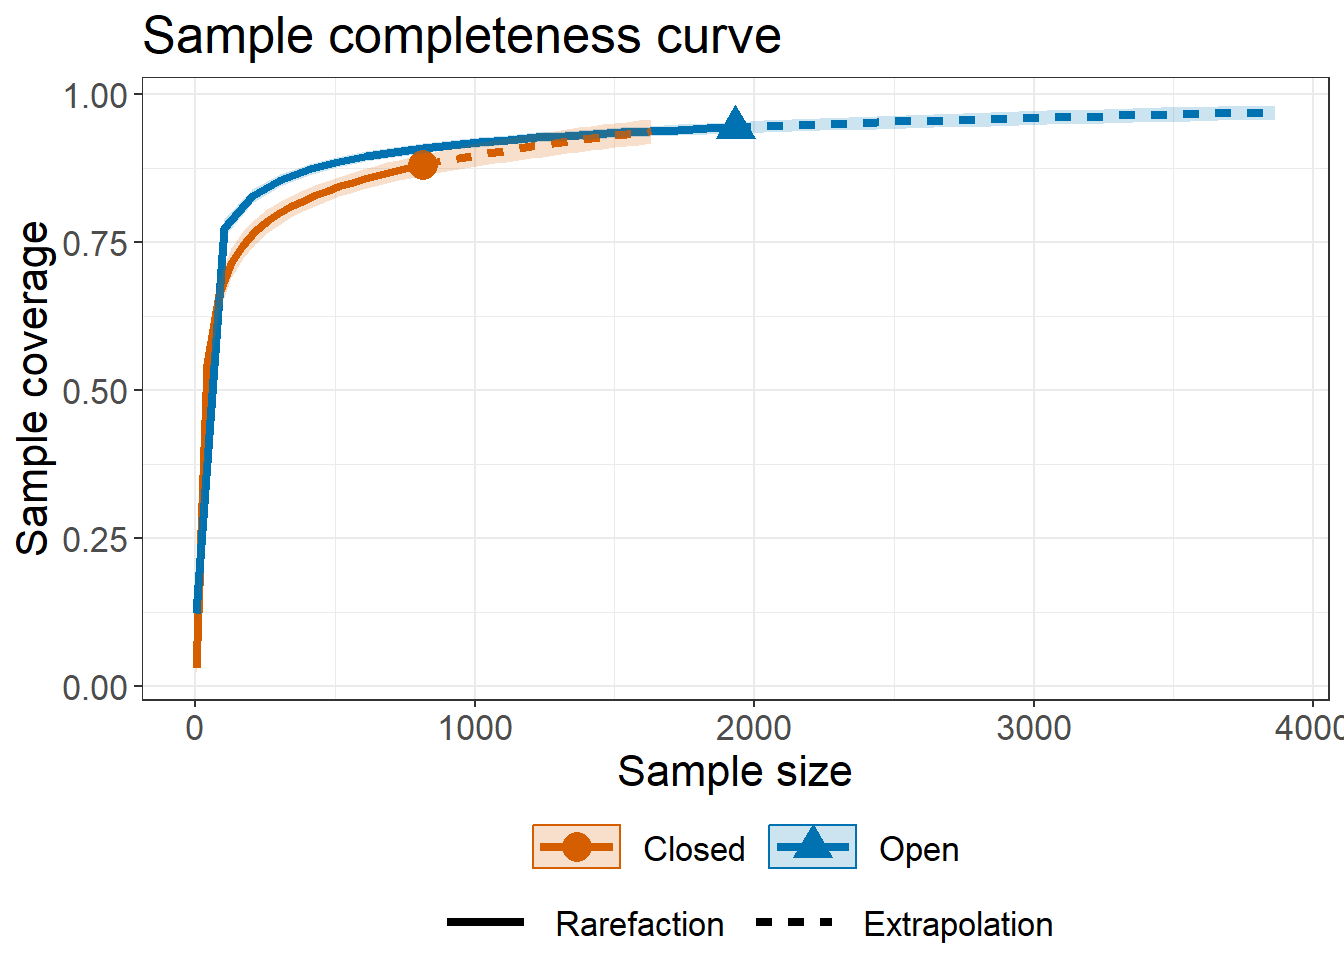
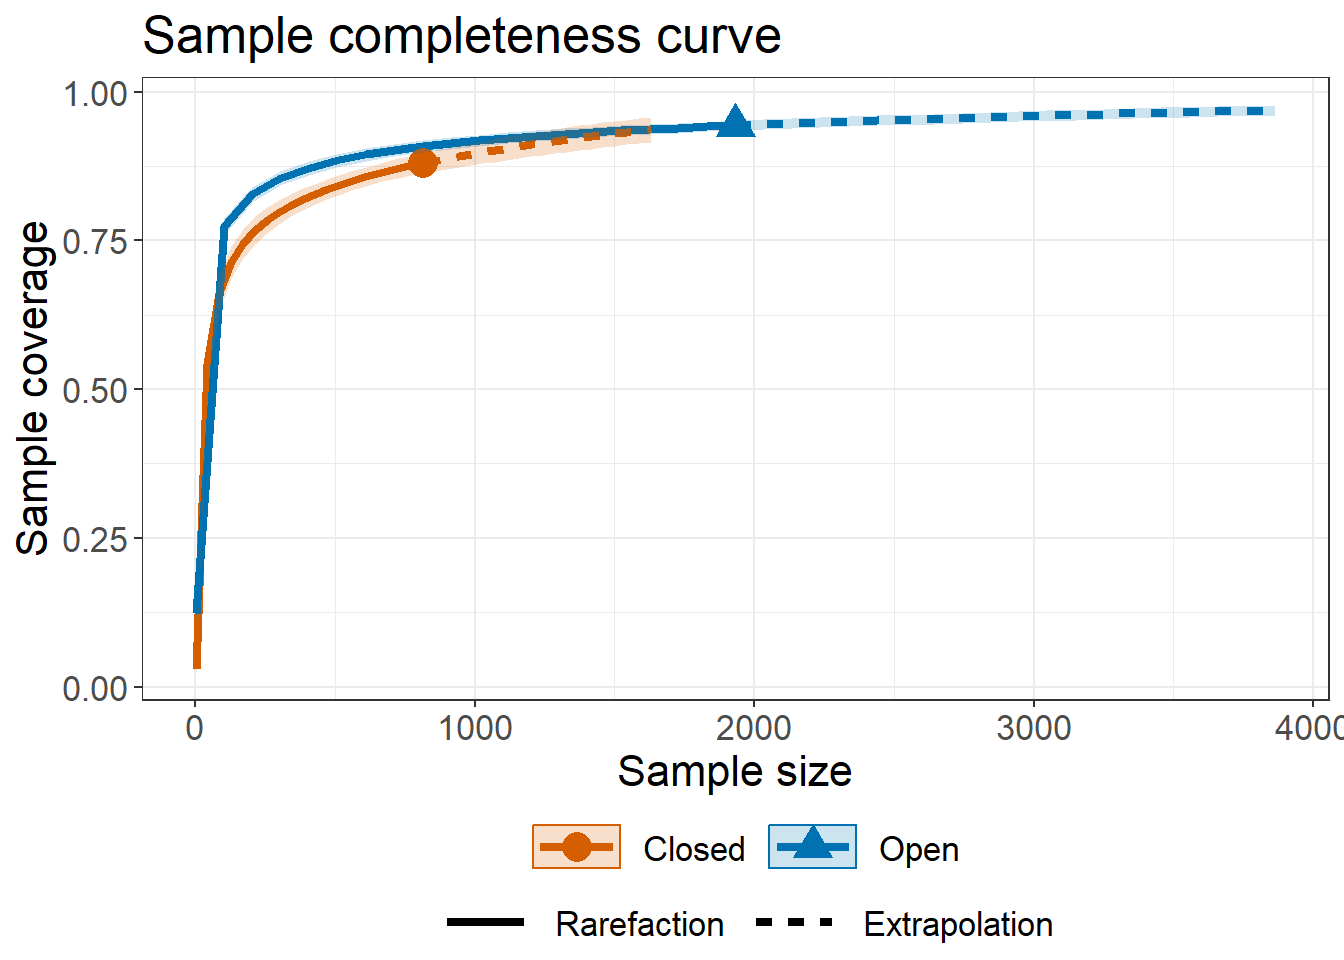
Update README.

diff --git a/README.md b/README.md
@@ -379,12 +379,12 @@ head(linkoutTD$iNextEst$size_based)
 # A tibble: 6 x 10
   Assemblage     m Method      Order.q    qD qD.LCL qD.UCL     SC SC.LCL SC.UCL
   <chr>      <dbl> <chr>         <dbl> <dbl>  <dbl>  <dbl>  <dbl>  <dbl>  <dbl>
-1 Closed         1 Rarefaction       0   1      1      1   0.0295 0.0241 0.0348
-2 Closed        43 Rarefaction       0  28.0   26.6   29.5 0.543  0.506  0.580 
-3 Closed        86 Rarefaction       0  44.8   42.0   47.6 0.661  0.632  0.689 
-4 Closed       129 Rarefaction       0  58.2   54.3   62.0 0.713  0.688  0.739 
-5 Closed       172 Rarefaction       0  69.8   65.0   74.6 0.745  0.722  0.768 
-6 Closed       215 Rarefaction       0  80.2   74.6   85.9 0.767  0.746  0.789 
+1 Closed         1 Rarefaction       0   1      1      1   0.0295 0.0252 0.0337
+2 Closed        43 Rarefaction       0  28.0   26.8   29.2 0.543  0.509  0.577 
+3 Closed        86 Rarefaction       0  44.8   42.3   47.3 0.661  0.631  0.691 
+4 Closed       129 Rarefaction       0  58.2   54.4   61.9 0.713  0.686  0.740 
+5 Closed       172 Rarefaction       0  69.8   65.0   74.6 0.745  0.720  0.770 
+6 Closed       215 Rarefaction       0  80.2   74.5   86.0 0.767  0.744  0.790 
 ```
 
 The second data frame of list `$iNextEst` (as shown below for
@@ -404,12 +404,12 @@ head(linkoutTD$iNextEst$coverage_based)
 # A tibble: 6 x 8
   Assemblage     SC      m Method      Order.q    qD qD.LCL qD.UCL
   <chr>       <dbl>  <dbl> <chr>         <dbl> <dbl>  <dbl>  <dbl>
-1 Closed     0.0295   1.00 Rarefaction       0  1.00  0.913   1.09
-2 Closed     0.543   43.0  Rarefaction       0 28.0  23.2    32.9 
-3 Closed     0.661   86.0  Rarefaction       0 44.8  36.8    52.8 
-4 Closed     0.713  129.   Rarefaction       0 58.2  47.7    68.7 
-5 Closed     0.745  172.   Rarefaction       0 69.8  57.2    82.4 
-6 Closed     0.767  215.   Rarefaction       0 80.2  65.9    94.6 
+1 Closed     0.0295   1.00 Rarefaction       0  1.00  0.937   1.06
+2 Closed     0.543   43.0  Rarefaction       0 28.0  23.9    32.2 
+3 Closed     0.661   86.0  Rarefaction       0 44.8  37.2    52.4 
+4 Closed     0.713  129.   Rarefaction       0 58.2  47.6    68.7 
+5 Closed     0.745  172.   Rarefaction       0 69.8  56.8    82.7 
+6 Closed     0.767  215.   Rarefaction       0 80.2  65.3    95.2 
 ```
 
 `$AsyEst` lists the observed diversity, asymptotic estimates, estimated
@@ -423,12 +423,12 @@ self-explanatory.
 ``` r
 head(linkoutTD$AsyEst)
   Assemblage         Diversity   Observed  Estimator       s.e.        LCL        UCL
-1     Closed  Species richness 178.000000 332.713393 28.3104471 277.225937 388.200850
-2     Closed Shannon diversity  64.690053  80.316088  5.0058894  70.504725  90.127451
-3     Closed Simpson diversity  32.627205  33.944467  2.2460690  29.542253  38.346682
-4       Open  Species richness 206.000000 389.238440 46.0252893 299.030531 479.446350
-5       Open Shannon diversity  23.311453  25.911799  1.2732378  23.416299  28.407299
-6       Open Simpson diversity   8.059978   8.089554  0.3115779   7.478873   8.700235
+1     Closed  Species richness 178.000000 332.713393 34.4345148 265.222985 400.203802
+2     Closed Shannon diversity  64.690053  80.316088  4.5779439  71.343483  89.288693
+3     Closed Simpson diversity  32.627205  33.944467  1.9604777  30.102001  37.786933
+4       Open  Species richness 206.000000 389.238440 36.1090429 318.466017 460.010864
+5       Open Shannon diversity  23.311453  25.911799  1.3610219  23.244245  28.579353
+6       Open Simpson diversity   8.059978   8.089554  0.3307473   7.441301   8.737807
 ```
 
 ## GRAPHIC DISPLAYS: FUNCTION ggiNEXT.link()
@@ -445,19 +445,18 @@ curves are allowed for different diversity classes:
 
 1.  Sample-size-based R/E curve (`type=1`): see Figs. 1a and 2a in the
     main text. This curve plots diversity estimates with confidence
-    intervals (if `se=TRUE`) as a function of sample size up to double
-    the reference sample size, by default, or a user-specified
-    `endpoint`.
+    intervals as a function of sample size up to double the reference
+    sample size, by default, or a user-specified `endpoint`.
 
-2.  Sample completeness curve (`type=2`) with confidence intervals (if
-    `se=TRUE`): see Figs. 1b and 2b in the main text. This curve plots
-    the sample coverage with respect to sample size for the same range
-    described in (1).
+2.  Sample completeness curve (`type=2`) with confidence intervals: see
+    Figs. 1b and 2b in the main text. This curve plots the sample
+    coverage with respect to sample size for the same range described in
+    (1).
 
 3.  Coverage-based R/E curve (`type=3`): see Figs. 1c and 2c in the main
     text. This curve plots the diversity estimates with confidence
-    intervals (if `se=TRUE`) as a function of sample coverage up to the
-    maximum coverage obtained from the maximum size described in (1).
+    intervals as a function of sample coverage up to the maximum
+    coverage obtained from the maximum size described in (1).
 
 The argument `facet.var=("Order.q", "Assemblage")` is used to create a
 separate plot for each value of the specified variable. For example, the
@@ -537,10 +536,16 @@ DataInfo.link(beetles, diversity = 'TD')
   Networks    n S.obs(row) S.obs(col) Links.obs Connectance Coverage  f1 f2 f3 f4 f5 f6 f7 f8 f9 f10
 1   Closed  816          6         83       178      0.3574   0.8800  98 31 15  3  3  5  0  2  2   1
 2     Open 1932          6         88       206      0.3902   0.9431 110 33 15  8  7  5  3  2  3   2
+```
+
+``` r
 DataInfo.link(beetles, diversity = 'PD', col.tree = beetles_col_tree)
   Networks    n S.obs(row) S.obs(col) Links.obs Connectance f1* f2*       g1       g2 PD.obs mean_T
 1   Closed  816          6         83       178      0.3574  98  31 11508.99 3873.052    924    285
 2     Open 1932          6         88       206      0.3902 110  33 13918.45 5172.410   1014    285
+```
+
+``` r
 DataInfo.link(beetles, diversity = 'FD', col.distM = beetles_col_distM)
   Networks    n S.obs(row) S.obs(col) Links.obs Connectance  f1 f2 a1' a2' threshold
 1   Closed  816          6         83       178      0.3574  98 31   0   0  8.930741
@@ -571,12 +576,12 @@ extrapolation, as indicated in the method of the output.
 ``` r
 estimateD.link(beetles, diversity = 'TD', q = c(0,1,2), base = "coverage",level = 0.7)
   Assemblage  SC         m      Method Order.q        qD      s.e.    qD.LCL    qD.UCL
-1     Closed 0.7 115.47429 Rarefaction       0 54.183847 4.4243142 45.512351 62.855344
-2     Closed 0.7 115.47429 Rarefaction       1 37.823241 2.7817812 32.371050 43.275432
-3     Closed 0.7 115.47429 Rarefaction       2 26.409739 1.8513187 22.781220 30.038257
-4       Open 0.7  41.05942 Rarefaction       0 17.426867 1.3435812 14.793496 20.060238
-5       Open 0.7  41.05942 Rarefaction       1 10.562168 0.5879382  9.409831 11.714506
-6       Open 0.7  41.05942 Rarefaction       2  6.898403 0.2732411  6.362860  7.433946
+1     Closed 0.7 115.47429 Rarefaction       0 54.183847 3.7391230 46.855301 61.512394
+2     Closed 0.7 115.47429 Rarefaction       1 37.823241 2.2323244 33.447965 42.198516
+3     Closed 0.7 115.47429 Rarefaction       2 26.409739 1.3704514 23.723703 29.095774
+4       Open 0.7  41.05942 Rarefaction       0 17.426867 1.4349989 14.614321 20.239413
+5       Open 0.7  41.05942 Rarefaction       1 10.562168 0.6261249  9.334986 11.789351
+6       Open 0.7  41.05942 Rarefaction       2  6.898403 0.2830484  6.343639  7.453168
 ```
 
 ## ASYMPTOTIC AND OBSERVED DIVERSITY FUNCTION: AO.link
@@ -600,50 +605,50 @@ out1 <- AO.link(beetles, diversity = 'TD', q = seq(0, 2, 0.2), method = c("Asymp
 
 out1
    Order.q         qD       s.e.     qD.LCL     qD.UCL Network     Method
-1      0.0 332.713393 33.9763104 314.715119 386.183778  Closed Asymptotic
-2      0.2 265.977501 24.0172018 251.715410 303.702598  Closed Asymptotic
-3      0.4 203.167245 15.8860259 191.904348 227.848934  Closed Asymptotic
-4      0.6 149.540048 10.1002003 140.654719 164.730418  Closed Asymptotic
-5      0.8 108.592546  6.5883357 101.535898 117.829106  Closed Asymptotic
-6      1.0  80.316088  4.7353808  74.640719  86.380849  Closed Asymptotic
-7      1.2  61.983531  3.7924706  57.327031  66.344344  Closed Asymptotic
-8      1.4  50.295815  3.2542819  46.329640  53.683848  Closed Asymptotic
-9      1.6  42.699384  2.8943068  39.188580  45.744334  Closed Asymptotic
-10     1.8  37.568079  2.6304707  34.376724  40.445198  Closed Asymptotic
-11     2.0  33.944467  2.4321414  30.972156  36.656956  Closed Asymptotic
-12     0.0 389.238440 25.7695985 368.950753 419.614993    Open Asymptotic
-13     0.2 263.223968 15.3143642 249.564315 280.381533    Open Asymptotic
-14     0.4 159.174040  7.9094381 150.628483 168.601683    Open Asymptotic
-15     0.6  86.647814  3.8045883  82.010864  90.721521    Open Asymptotic
-16     0.8  45.571274  1.9786723  43.251229  48.011159    Open Asymptotic
-17     1.0  25.911799  1.1579828  24.693726  27.569131    Open Asymptotic
-18     1.2  16.963237  0.7524340  16.225017  18.071670    Open Asymptotic
-19     1.4  12.643810  0.5426228  12.124167  13.430006    Open Asymptotic
-20     1.6  10.333946  0.4266571   9.923978  10.933100    Open Asymptotic
-21     1.8   8.967960  0.3569329   8.623544   9.454416    Open Asymptotic
-22     2.0   8.089554  0.3116692   7.788035   8.504167    Open Asymptotic
-23     0.0 178.000000 10.3344085 164.400000 189.000000  Closed  Empirical
-24     0.2 149.140436  9.3591022 136.687335 159.398179  Closed  Empirical
-25     0.4 122.284123  8.2462369 111.168394 131.485232  Closed  Empirical
-26     0.6  98.784711  7.0760083  89.113283 106.723166  Closed  Empirical
-27     0.8  79.539008  5.9523008  71.292189  86.176214  Closed  Empirical
-28     1.0  64.690053  4.9660908  57.724088  70.145808  Closed  Empirical
-29     1.2  53.711702  4.1634827  47.809668  58.194544  Closed  Empirical
-30     1.4  45.761569  3.5430160  40.695814  49.491664  Closed  Empirical
-31     1.6  40.008527  3.0755911  35.580914  43.172413  Closed  Empirical
-32     1.8  35.788959  2.7252967  31.843937  38.527422  Closed  Empirical
-33     2.0  32.627205  2.4606368  29.048824  35.040611  Closed  Empirical
-34     0.0 206.000000  6.4265076 197.200000 212.300000    Open  Empirical
-35     0.2 147.911160  4.7682863 141.774671 153.581184    Open  Empirical
-36     0.4  98.276240  3.3383330  94.610688 102.927324    Open  Empirical
-37     0.6  60.906771  2.2294870  59.136257  64.279110    Open  Empirical
-38     0.8  36.832763  1.4445257  35.507725  39.008829    Open  Empirical
-39     1.0  23.311453  0.9313249  22.281398  24.626460    Open  Empirical
-40     1.2  16.195155  0.6205939  15.424552  16.993636    Open  Empirical
-41     1.4  12.394607  0.4391408  11.812373  12.905136    Open  Empirical
-42     1.6  10.237828  0.3315413   9.781227  10.586516    Open  Empirical
-43     1.8   8.920980  0.2648573   8.547761   9.174783    Open  Empirical
-44     2.0   8.059978  0.2213207   7.743510   8.255013    Open  Empirical
+1      0.0 332.713393 27.6842710 308.568044 366.135164  Closed Asymptotic
+2      0.2 265.977501 19.1639055 248.770603 286.512935  Closed Asymptotic
+3      0.4 203.167245 12.2660226 192.055647 218.501068  Closed Asymptotic
+4      0.6 149.540048  7.5456657 142.737347 160.265071  Closed Asymptotic
+5      0.8 108.592546  4.9000398 104.688123 115.983548  Closed Asymptotic
+6      1.0  80.316088  3.5691820  76.912147  85.381432  Closed Asymptotic
+7      1.2  61.983531  2.8233555  58.450432  65.472350  Closed Asymptotic
+8      1.4  50.295815  2.3375278  47.007803  52.776058  Closed Asymptotic
+9      1.6  42.699384  2.0055407  39.721021  44.541638  Closed Asymptotic
+10     1.8  37.568079  1.7797798  34.851500  38.999000  Closed Asymptotic
+11     2.0  33.944467  1.6289016  31.418236  35.101545  Closed Asymptotic
+12     0.0 389.238440 23.9500574 360.262312 418.294163    Open Asymptotic
+13     0.2 263.223968 14.2916069 245.538231 278.399898    Open Asymptotic
+14     0.4 159.174040  7.4655280 150.177567 165.700538    Open Asymptotic
+15     0.6  86.647814  3.6648832  82.973284  91.157042    Open Asymptotic
+16     0.8  45.571274  1.8440972  43.804805  48.145928    Open Asymptotic
+17     1.0  25.911799  0.9564169  24.979600  27.222580    Open Asymptotic
+18     1.2  16.963237  0.5277983  16.417248  17.635319    Open Asymptotic
+19     1.4  12.643810  0.3233401  12.286290  13.013092    Open Asymptotic
+20     1.6  10.333946  0.2228161  10.075356  10.557546    Open Asymptotic
+21     1.8   8.967960  0.1713854   8.765575   9.125483    Open Asymptotic
+22     2.0   8.089554  0.1444350   7.921235   8.249060    Open Asymptotic
+23     0.0 178.000000  4.6690470 172.100000 182.600000  Closed  Empirical
+24     0.2 149.140436  3.9496851 143.683988 153.083960  Closed  Empirical
+25     0.4 122.284123  3.2189158 117.563672 125.444575  Closed  Empirical
+26     0.6  98.784711  2.5527819  94.970468 101.184304  Closed  Empirical
+27     0.8  79.539008  2.0204157  76.608498  81.313093  Closed  Empirical
+28     1.0  64.690053  1.6433614  62.479137  66.444433  Closed  Empirical
+29     1.2  53.711702  1.3937261  52.048203  55.458055  Closed  Empirical
+30     1.4  45.761569  1.2287478  44.472832  47.440153  Closed  Empirical
+31     1.6  40.008527  1.1169462  38.957960  41.604942  Closed  Empirical
+32     1.8  35.788959  1.0407265  34.881725  37.311582  Closed  Empirical
+33     2.0  32.627205  0.9903577  31.802314  34.092468  Closed  Empirical
+34     0.0 206.000000  8.9888820 192.200000 213.300000    Open  Empirical
+35     0.2 147.911160  6.7523332 137.630135 153.511141    Open  Empirical
+36     0.4  98.276240  4.6859813  91.225503 102.391872    Open  Empirical
+37     0.6  60.906771  3.0291282  56.587374  63.834306    Open  Empirical
+38     0.8  36.832763  1.9021038  34.421597  38.881011    Open  Empirical
+39     1.0  23.311453  1.2297123  22.002732  24.759636    Open  Empirical
+40     1.2  16.195155  0.8511934  15.263719  17.261646    Open  Empirical
+41     1.4  12.394607  0.6365222  11.665307  13.224986    Open  Empirical
+42     1.6  10.237828  0.5093079   9.645089  10.919826    Open  Empirical
+43     1.8   8.920980  0.4296588   8.419724   9.506050    Open  Empirical
+44     2.0   8.059978  0.3771210   7.621307   8.578857    Open  Empirical
 ```
 
 ## GRAPHIC DISPLAYS FUNCTION: ggAO.link()
@@ -663,7 +668,7 @@ Here `outcome` is the object of `AO.link`’s output .
 ggAO.link(out1)
 ```
 
-<img src="README/README-unnamed-chunk-16-1.png" width="672" style="display: block; margin: auto;" />
+<img src="README/README-unnamed-chunk-18-1.png" width="672" style="display: block; margin: auto;" />
 
 ## SINGLE COMMUNITY FUNCTION: Completeness.link()
 
@@ -686,7 +691,7 @@ out1 <- Completeness.link(data = beetles)
 ggCompleteness.link(out1)
 ```
 
-<img src="README/README-unnamed-chunk-17-1.png" width="70%" style="display: block; margin: auto;" />
+<img src="README/README-unnamed-chunk-19-1.png" width="70%" style="display: block; margin: auto;" />
 
 ## SINGLE COMMUNITY FUNCTION: Spec.link()
 
@@ -710,7 +715,7 @@ out1 <- Spec.link(data = beetles)
 ggSpec.link(out1)
 ```
 
-<img src="README/README-unnamed-chunk-18-1.png" width="672" style="display: block; margin: auto;" />
+<img src="README/README-unnamed-chunk-20-1.png" width="672" style="display: block; margin: auto;" />
 
 ### Multi-community
 
@@ -886,66 +891,66 @@ Abundance_TD
 
     $gamma
       Estimate Order.q      Method  SC   Size  s.e.    LCL    UCL   Region diversity
-    1   13.978       0 Rarefaction 0.5 20.941 0.889 12.235 15.722 Region_1        TD
-    2   11.552       1 Rarefaction 0.5 20.941 0.685 10.210 12.894 Region_1        TD
-    3    9.072       2 Rarefaction 0.5 20.941 0.484  8.124 10.020 Region_1        TD
-    4   24.932       0 Rarefaction 0.6 45.591 1.615 21.766 28.097 Region_1        TD
-    5   17.460       1 Rarefaction 0.6 45.591 1.009 15.482 19.438 Region_1        TD
-    6   11.614       2 Rarefaction 0.6 45.591 0.577 10.484 12.744 Region_1        TD
+    1   13.978       0 Rarefaction 0.5 20.941 0.743 12.522 15.435 Region_1        TD
+    2   11.552       1 Rarefaction 0.5 20.941 0.559 10.456 12.648 Region_1        TD
+    3    9.072       2 Rarefaction 0.5 20.941 0.383  8.321  9.824 Region_1        TD
+    4   24.932       0 Rarefaction 0.6 45.591 1.466 22.059 27.804 Region_1        TD
+    5   17.460       1 Rarefaction 0.6 45.591 0.853 15.788 19.132 Region_1        TD
+    6   11.614       2 Rarefaction 0.6 45.591 0.449 10.734 12.495 Region_1        TD
 
     $alpha
       Estimate Order.q      Method  SC   Size  s.e.    LCL    UCL   Region diversity
-    1    8.432       0 Rarefaction 0.5 25.949 0.480  7.491  9.373 Region_1        TD
-    2    6.706       1 Rarefaction 0.5 25.949 0.349  6.023  7.390 Region_1        TD
-    3    5.011       2 Rarefaction 0.5 25.949 0.229  4.563  5.460 Region_1        TD
-    4   16.403       0 Rarefaction 0.6 61.802 0.847 14.742 18.063 Region_1        TD
-    5   10.562       1 Rarefaction 0.6 61.802 0.477  9.626 11.497 Region_1        TD
-    6    6.342       2 Rarefaction 0.6 61.802 0.254  5.843  6.841 Region_1        TD
+    1    8.432       0 Rarefaction 0.5 25.949 0.456  7.538  9.326 Region_1        TD
+    2    6.706       1 Rarefaction 0.5 25.949 0.333  6.054  7.359 Region_1        TD
+    3    5.011       2 Rarefaction 0.5 25.949 0.218  4.583  5.440 Region_1        TD
+    4   16.403       0 Rarefaction 0.6 61.802 0.804 14.827 17.978 Region_1        TD
+    5   10.562       1 Rarefaction 0.6 61.802 0.459  9.663 11.460 Region_1        TD
+    6    6.342       2 Rarefaction 0.6 61.802 0.242  5.868  6.816 Region_1        TD
 
     $beta
       Estimate Order.q      Method  SC   Size  s.e.   LCL   UCL   Region diversity
-    1    1.658       0 Rarefaction 0.5 25.949 0.023 1.613 1.702 Region_1        TD
-    2    1.723       1 Rarefaction 0.5 25.949 0.019 1.686 1.759 Region_1        TD
-    3    1.810       2 Rarefaction 0.5 25.949 0.013 1.784 1.836 Region_1        TD
-    4    1.520       0 Rarefaction 0.6 61.802 0.019 1.483 1.557 Region_1        TD
-    5    1.653       1 Rarefaction 0.6 61.802 0.015 1.623 1.683 Region_1        TD
-    6    1.831       2 Rarefaction 0.6 61.802 0.012 1.809 1.854 Region_1        TD
+    1    1.658       0 Rarefaction 0.5 25.949 0.025 1.608 1.707 Region_1        TD
+    2    1.723       1 Rarefaction 0.5 25.949 0.021 1.681 1.764 Region_1        TD
+    3    1.810       2 Rarefaction 0.5 25.949 0.015 1.781 1.839 Region_1        TD
+    4    1.520       0 Rarefaction 0.6 61.802 0.020 1.481 1.559 Region_1        TD
+    5    1.653       1 Rarefaction 0.6 61.802 0.016 1.622 1.684 Region_1        TD
+    6    1.831       2 Rarefaction 0.6 61.802 0.011 1.810 1.852 Region_1        TD
 
     $C
       Estimate Order.q      Method  SC   Size  s.e.   LCL   UCL   Region diversity
-    1    0.658       0 Rarefaction 0.5 25.949 0.023 0.613 0.702 Region_1        TD
-    2    0.785       1 Rarefaction 0.5 25.949 0.016 0.754 0.815 Region_1        TD
-    3    0.895       2 Rarefaction 0.5 25.949 0.008 0.879 0.911 Region_1        TD
-    4    0.520       0 Rarefaction 0.6 61.802 0.019 0.483 0.557 Region_1        TD
-    5    0.725       1 Rarefaction 0.6 61.802 0.013 0.699 0.751 Region_1        TD
-    6    0.908       2 Rarefaction 0.6 61.802 0.007 0.894 0.922 Region_1        TD
+    1    0.658       0 Rarefaction 0.5 25.949 0.025 0.608 0.707 Region_1        TD
+    2    0.785       1 Rarefaction 0.5 25.949 0.018 0.750 0.819 Region_1        TD
+    3    0.895       2 Rarefaction 0.5 25.949 0.009 0.877 0.913 Region_1        TD
+    4    0.520       0 Rarefaction 0.6 61.802 0.020 0.481 0.559 Region_1        TD
+    5    0.725       1 Rarefaction 0.6 61.802 0.014 0.698 0.753 Region_1        TD
+    6    0.908       2 Rarefaction 0.6 61.802 0.006 0.895 0.921 Region_1        TD
 
     $U
       Estimate Order.q      Method  SC   Size  s.e.   LCL   UCL   Region diversity
-    1    0.794       0 Rarefaction 0.5 25.949 0.016 0.761 0.826 Region_1        TD
-    2    0.785       1 Rarefaction 0.5 25.949 0.016 0.754 0.815 Region_1        TD
-    3    0.810       2 Rarefaction 0.5 25.949 0.013 0.784 0.836 Region_1        TD
-    4    0.684       0 Rarefaction 0.6 61.802 0.016 0.652 0.716 Region_1        TD
-    5    0.725       1 Rarefaction 0.6 61.802 0.013 0.699 0.751 Region_1        TD
-    6    0.831       2 Rarefaction 0.6 61.802 0.012 0.809 0.854 Region_1        TD
+    1    0.794       0 Rarefaction 0.5 25.949 0.019 0.757 0.830 Region_1        TD
+    2    0.785       1 Rarefaction 0.5 25.949 0.018 0.750 0.819 Region_1        TD
+    3    0.810       2 Rarefaction 0.5 25.949 0.015 0.781 0.839 Region_1        TD
+    4    0.684       0 Rarefaction 0.6 61.802 0.017 0.650 0.718 Region_1        TD
+    5    0.725       1 Rarefaction 0.6 61.802 0.014 0.698 0.753 Region_1        TD
+    6    0.831       2 Rarefaction 0.6 61.802 0.011 0.810 0.852 Region_1        TD
 
     $V
       Estimate Order.q      Method  SC   Size  s.e.   LCL   UCL   Region diversity
-    1    0.658       0 Rarefaction 0.5 25.949 0.023 0.613 0.702 Region_1        TD
-    2    0.723       1 Rarefaction 0.5 25.949 0.019 0.686 0.759 Region_1        TD
-    3    0.810       2 Rarefaction 0.5 25.949 0.013 0.784 0.836 Region_1        TD
-    4    0.520       0 Rarefaction 0.6 61.802 0.019 0.483 0.557 Region_1        TD
-    5    0.653       1 Rarefaction 0.6 61.802 0.015 0.623 0.683 Region_1        TD
-    6    0.831       2 Rarefaction 0.6 61.802 0.012 0.809 0.854 Region_1        TD
+    1    0.658       0 Rarefaction 0.5 25.949 0.025 0.608 0.707 Region_1        TD
+    2    0.723       1 Rarefaction 0.5 25.949 0.021 0.681 0.764 Region_1        TD
+    3    0.810       2 Rarefaction 0.5 25.949 0.015 0.781 0.839 Region_1        TD
+    4    0.520       0 Rarefaction 0.6 61.802 0.020 0.481 0.559 Region_1        TD
+    5    0.653       1 Rarefaction 0.6 61.802 0.016 0.622 0.684 Region_1        TD
+    6    0.831       2 Rarefaction 0.6 61.802 0.011 0.810 0.852 Region_1        TD
 
     $S
       Estimate Order.q      Method  SC   Size  s.e.   LCL   UCL   Region diversity
-    1    0.794       0 Rarefaction 0.5 25.949 0.016 0.761 0.826 Region_1        TD
-    2    0.839       1 Rarefaction 0.5 25.949 0.013 0.814 0.864 Region_1        TD
-    3    0.895       2 Rarefaction 0.5 25.949 0.008 0.879 0.911 Region_1        TD
-    4    0.684       0 Rarefaction 0.6 61.802 0.016 0.652 0.716 Region_1        TD
-    5    0.790       1 Rarefaction 0.6 61.802 0.011 0.768 0.812 Region_1        TD
-    6    0.908       2 Rarefaction 0.6 61.802 0.007 0.894 0.922 Region_1        TD
+    1    0.794       0 Rarefaction 0.5 25.949 0.019 0.757 0.830 Region_1        TD
+    2    0.839       1 Rarefaction 0.5 25.949 0.014 0.811 0.867 Region_1        TD
+    3    0.895       2 Rarefaction 0.5 25.949 0.009 0.877 0.913 Region_1        TD
+    4    0.684       0 Rarefaction 0.6 61.802 0.017 0.650 0.718 Region_1        TD
+    5    0.790       1 Rarefaction 0.6 61.802 0.012 0.767 0.813 Region_1        TD
+    6    0.908       2 Rarefaction 0.6 61.802 0.006 0.895 0.921 Region_1        TD
 
 The output contains seven data frames: `gamma`, `alpha`, `beta`, `C`,
 `U`, `V`, `S`. For each data frame, it includes the diversity estimate
@@ -1015,13 +1020,13 @@ four dissimilarities by setting the parameter <code>**type**</code>:
 ggiNEXTbeta.link(Abundance_TD, type = 'B')
 ```
 
-<img src="README/README-unnamed-chunk-24-1.png" width="576" style="display: block; margin: auto;" />
+<img src="README/README-unnamed-chunk-26-1.png" width="576" style="display: block; margin: auto;" />
 
 ``` r
 ggiNEXTbeta.link(Abundance_TD, type = 'D')
 ```
 
-<img src="README/README-unnamed-chunk-25-1.png" width="576" style="display: block; margin: auto;" />
+<img src="README/README-unnamed-chunk-27-1.png" width="576" style="display: block; margin: auto;" />
 
 ### How to cite
 
